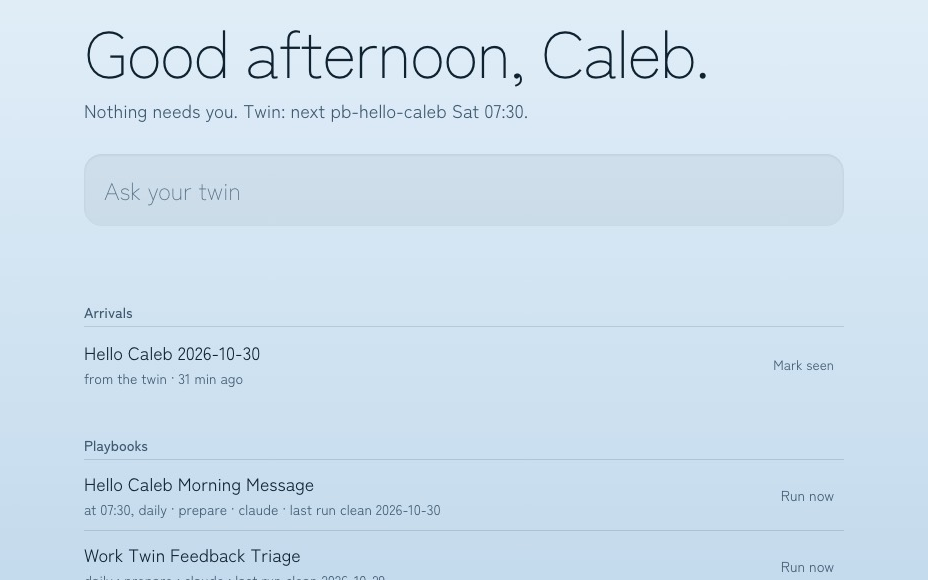
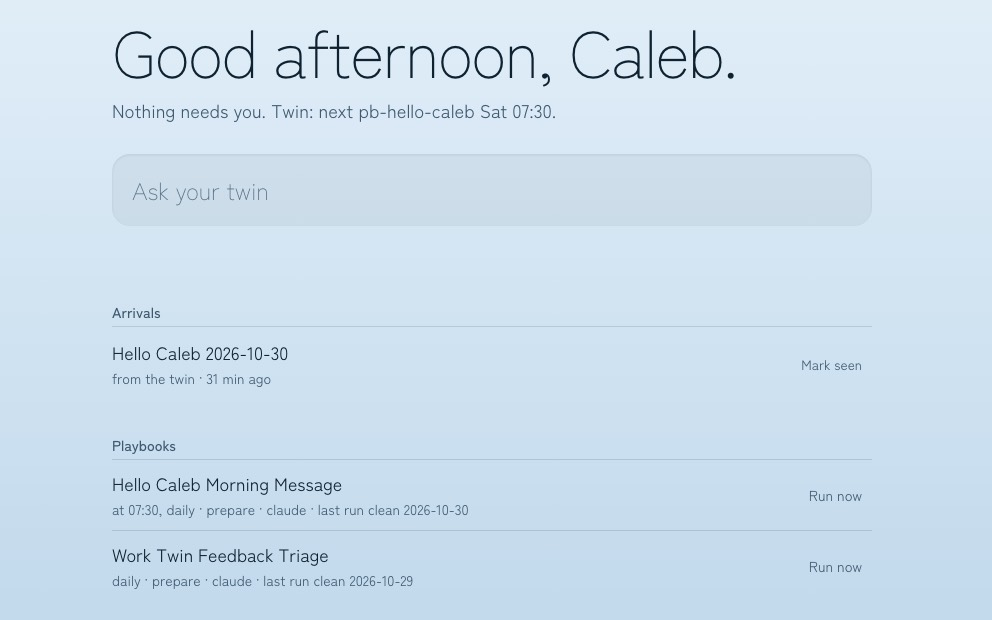
Move to a top bar and featured-row home page
Replace the sidebar with a top bar and footer. The home page now leads with a
hero, large AI Systems rows, a compact documentation grid, and an about strip.
Docwatch gains interface screenshots rendered from sample data.

diff --git a/src/data/site.js b/src/data/site.js
@@ -2,9 +2,22 @@ export const site = {
   title: 'Caleb Larry',
   tagline: 'Self-taught IT and Technical Writing Professional',
   email: 'larrycm@gmail.com',
+  github: 'https://github.com/MachoMono',
 };
 
-// Sidebar and home page sections, in display order. Each case study in
+// Home page copy. Placeholder text: rewrite freely.
+export const home = {
+  eyebrow: 'AI agent tooling · Developer experience · Technical writing',
+  headline: 'Tools that make technical documentation work for engineers and the AI agents reading it.',
+  sub: 'Senior Technical Writer building agent tooling with Claude Code.',
+  chips: ['4-agent pipeline, 2 human gates', 'Built with Claude Code', 'Nothing ships without a yes'],
+  about: {
+    heading: 'Technical writer turned agent builder',
+    text: 'Five years as a security analyst before that. I design toward buy-in: a good system only works if the people using it trust it.',
+  },
+};
+
+// Home page sections, in display order. Each case study in
 // src/pages/work/ picks one of these with its `category` frontmatter.
 export const groups = [
   { id: 'ai', label: 'AI Systems' },

diff --git a/src/pages/work/docwatch.md b/src/pages/work/docwatch.md
@@ -6,6 +6,10 @@ order: 2
 summary: I designed and built Docwatch, a four-agent pipeline that turns the questions people keep asking in Slack into fact-checked documentation pull requests, with a person approving each step that matters.
 card: card-docwatch.png
 pitch: Slack questions in, verified docs out. Four agents find the gaps, draft the fix, and check every claim before a pull request opens.
+chips:
+  - 4 agents
+  - 2 human gates
+  - Claude Code
 facts:
   - label: Agents
     value: 4, one narrow job each
@@ -14,6 +18,7 @@ facts:
   - label: Built with
     value: Claude Code
 video:
+  badge: Watch the 15-second walkthrough
   file: docwatch-animated.mp4
   poster: docwatch-poster.png
   alt: Animated diagram of the Docwatch pipeline. A question in Slack moves through detect, a human gate, classify, write, a second human gate, and interrogate, ending in a pull request.
@@ -36,6 +41,13 @@ decisions:
     text: Code and tests count as proof. Slack describes a symptom, never a cause, so a claim about system behavior needs the top tier.
   - title: Narrow jobs, least privilege
     text: Each agent gets only the tools it needs. Only the writer can edit files, and every run is its own process with its own prompt.
+screens:
+  - file: docwatch-board.png
+    alt: The Docwatch gap board with columns from Pending Approval to Finished and a card for each documentation gap
+    caption: The gap board. A person approves, rejects or writes each gap. The topics shown are sample data.
+  - file: docwatch-analytics.png
+    alt: The Docwatch analytics page with four totals and two line charts of gaps detected and docs written per day
+    caption: Analytics for gaps detected and docs written. The numbers shown are sample data.
 results:
   status: In daily use by a developer team.
   metrics: []

diff --git a/src/pages/work/work-twin.md b/src/pages/work/work-twin.md
@@ -6,6 +6,10 @@ order: 1
 summary: I designed and built Work Twin, an AI agent that learns how a person does their job through a short interview, then does that work with them.
 card: card-work-twin.png
 pitch: An AI colleague that learns how you do your job, then does that work with you. Nothing leaves your desk without your yes.
+chips:
+  - ~10 days to build
+  - Claude Code or Codex
+  - In pilot
 facts:
   - label: Built in
     value: About 10 days
